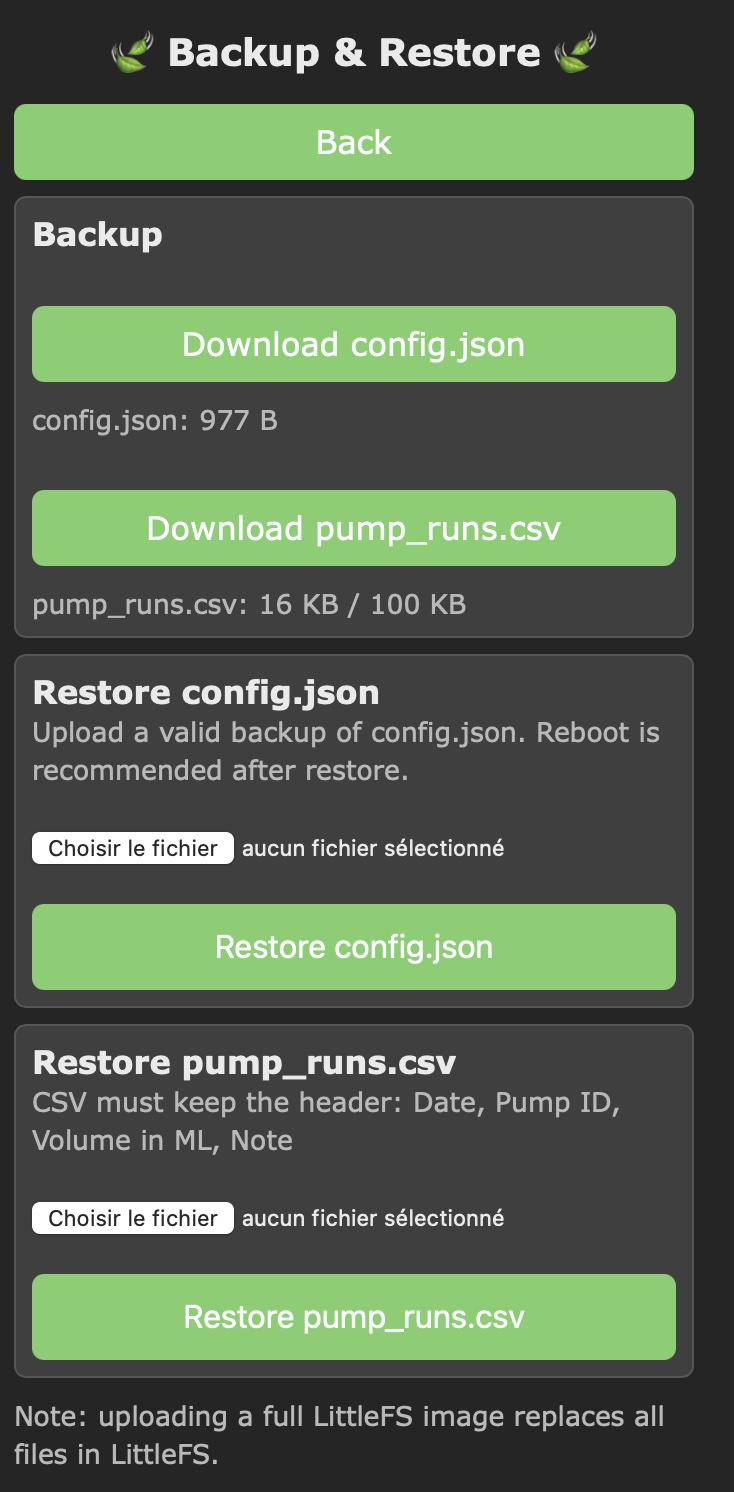
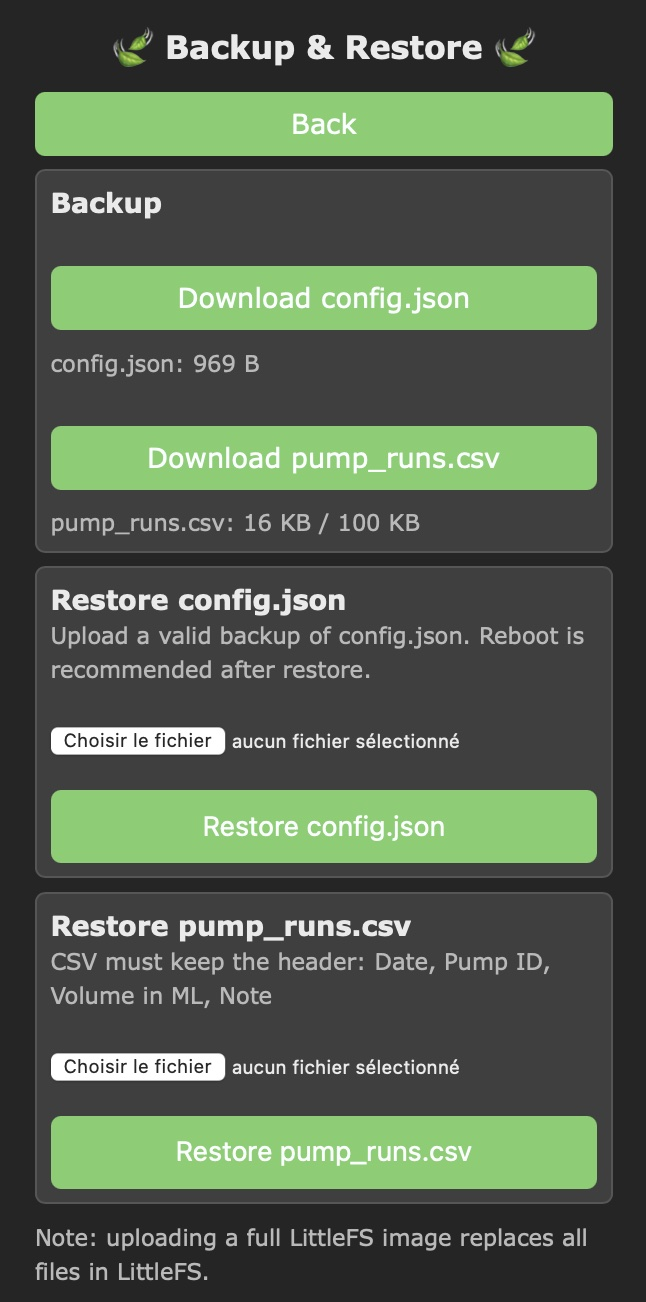
Add validated Web UI reference screenshots

diff --git a/README.md b/README.md
@@ -258,7 +258,7 @@ pio run -t uploadfs --upload-port &lt;PORT&gt;</code></pre>
 
 <h2 id="web-ui-reference">Web UI reference</h2>
 
-> Additional redacted screenshots for network settings, the pump log, and firmware updates will be added later.
+> The screenshots below use generic, public-safe example values. Do not publish a device backup or screenshot containing private credentials, hostnames, or network addresses.
 
 <p>The home page provides access to Pump Calibration, Setup, MQTT command sending, Pump Log, Firmware Upgrade, and reboot. The complete route map is maintained in <a href="docs/web-pages-index.md">docs/web-pages-index.md</a>.</p>
 
@@ -285,6 +285,26 @@ pio run -t uploadfs --upload-port &lt;PORT&gt;</code></pre>
 <table>
   <tr>
     <td align="center"><img src="docs/Backup_restore.jpg" alt="HydroDozerPump backup and restore page" width="70%"><br><em>Configuration and pump-log backup and restore</em></td>
+  </tr>
+</table>
+
+<h3>Pump log</h3>
+
+<p>The pump-log page summarizes the three scheduler slots and shows the newest pump-run entries first. Use <strong>Download Pump Log</strong> to save the CSV file, and <strong>Refresh</strong> to reload the current entries. The log uses the columns <code>Date</code>, <code>Pump ID</code>, <code>Volume in ML</code>, and <code>Note</code>.</p>
+
+<table>
+  <tr>
+    <td align="center"><img src="docs/Pump_log.jpg" alt="HydroDozerPump pump log page" width="70%"><br><em>Pump schedule summary and CSV pump-run log</em></td>
+  </tr>
+</table>
+
+<h3>Firmware upgrade</h3>
+
+<p>Select <strong>Firmware</strong> in the ElegantOTA page to upload the compiled firmware <code>.bin</code>. Select <strong>Filesystem</strong> only when uploading the LittleFS image; it replaces the Web UI and stored files, so back up <code>config.json</code> and <code>pump_runs.csv</code> first.</p>
+
+<table>
+  <tr>
+    <td align="center"><img src="docs/Firmware_upgrade.jpg" alt="ElegantOTA firmware and filesystem upload page" width="70%"><br><em>Firmware and LittleFS upload page</em></td>
   </tr>
 </table>
 
@@ -332,9 +352,13 @@ pio run -t uploadfs --upload-port &lt;PORT&gt;</code></pre>
   </tr>
 </table>
 
-<h3>Settings and recovery</h3>
+<h3>Network, MQTT, and recovery settings</h3>
 
 <table>
+  <tr>
+    <td align="center"><img src="docs/Networkiong.jpg" alt="HydroDozerPump network settings page" width="100%"><br><em>Network settings: DHCP, hostname, and optional static address</em></td>
+    <td align="center"><img src="docs/MQTT-Settings.jpg" alt="HydroDozerPump MQTT settings page" width="100%"><br><em>MQTT broker and client settings</em></td>
+  </tr>
   <tr>
     <td align="center"><img src="docs/Time-Sync.png" alt="HydroDozerPump time synchronization settings page" width="100%"><br><em>Time Synchronization: <code>/settings/time</code></em></td>
     <td align="center"><img src="docs/OTA-Settings.png" alt="HydroDozerPump OTA settings page" width="100%"><br><em>OTA Settings: <code>/settings/ota</code></em></td>
